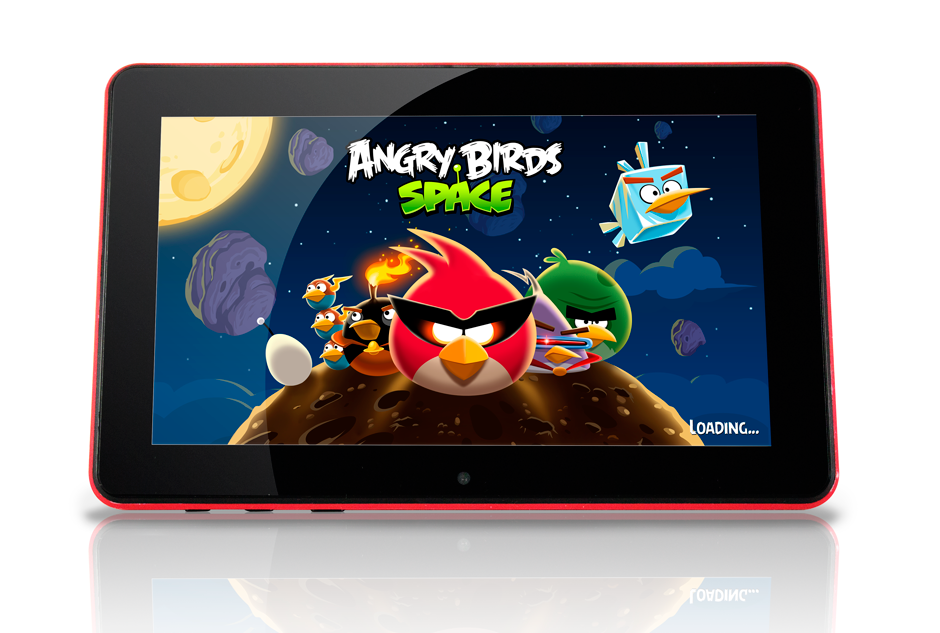
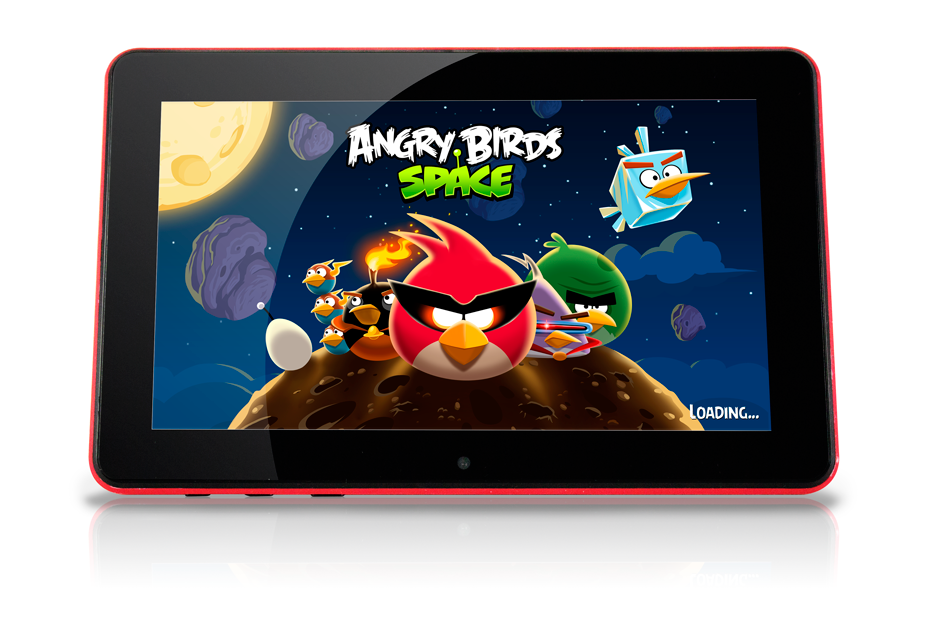
tweeked layout, added list

diff --git a/Ox.html b/Ox.html
@@ -1,6 +1,6 @@
 ---
 layout: product
-title: Ox
+title: ox
 ---
 
 <div class="container-nav">
@@ -19,7 +19,7 @@ title: Ox
 <div class="container-narrow spaceBetweenNav">
 	<div class="row-fluid">
 		<div class="span6">
-			<img src="img/OX7-front.jpg" alt="Ox 7">
+			<img src="img/OX7-front.png" alt="Ox 7">
 		</div>
 		<div class="span5">
 			<h1><img src="img/OX7-Logo.png" alt="Ox 7"></h1>
@@ -28,20 +28,22 @@ title: Ox
 			</p>
 			<ul class="anchors">
   				<li><a href="#">Diseño Moderno</a> <span class="divider">|</span></li>
-  				<li><a href="#">Tus películas favoritas</a> <span class="divider">|</span></li>
-  				<li><a href="#">Google Play Store</a> <span class="divider"></span></li>
+  				<li><a href="#">Google Play Store</a> <span class="divider">|</span></li>
+  				<li><a href="#">Jueagos Favoritos</a> <span class="divider"></span></li>
 			</ul>
 			<p>
 				<button class="btn btn btn-danger btn-large btn-block" type="button">Compralo Ya</button>
 			</p>
 		</div>
 	</div>
-	<div class="whiteSpace"></div>
 	<div class="row-fluid">
 		<div class="span5">
-			<h2>Introduciendo Ox 7"</h2>
+			<h2 class="grey headlineMargin2"><b>Introduciendo Ox 7"</b></h2>
+			<hr>
+			<h2 class="grey">Con un diseño moderno</h2>
 			<p>Con camara, bateria de 4 horas, sistema operativo Android Ice Cream Sandwich, diseño moderno, peso liviano y pantalla brillante. Mira tus películas favoritas y YouTube desde cualquier Parte. Descarga Facebook, Twitter, Angry Birds o tu aplicación favorita desde el Google Play Store.
 			</p>
+			<hr>
 		</div>
 		<div class="span6">
 			<img src="img/OX7-angulo.png" alt="Ox 7">
@@ -49,53 +51,60 @@ title: Ox
 	</div>
 	<div class="whiteSpace"></div>
 	<div class="row-fluid">
-		<div class="span7">
-			<img src="http://placehold.it/548x500" alt="placehold">
+		<div class="span6">
+			<img src="http://placehold.it/470x500" alt="placehold">
 		</div>
-		<div class="span5">
-			<h2 class="grey">Descarga tus applicaciones favoritas</h2>
+		<div class="span6">
+			<h2 class="grey">Descarga tus applicaciones favoritas en el Google Play Store</h2>
 			<hr>
-			<ul class="listnone">
-			<li class="listnone"><img src="img/OX-LogoO.png" alt="Ox">Comparte con facebook</li>
-  			<li class="listnone"><img src="img/OX-LogoO.png" alt="Ox">Toma notas con evernote</li>
-  			<li class="listnone"><img src="img/OX-LogoO.png" alt="Ox">Trabaja con Google Drive</li>
-  			<li class="listnone"><img src="img/OX-LogoO.png" alt="Ox">Mira tus videos favoritos con YouTube</li>		
-			</ul>
+			<div class="row-fluid listHorizontalLineMargin">
+				<div class="span12">
+					<ul class="listnone">
+						<div class="row-fluid">
+								<li class="span8 listnone fontSizeList grey "><img src="img/OX-LogoO.png" alt="Ox">Comparte con Facebook</li>
+							<div class="span4 appIcon">
+								<img src="img/FacebookCircle.png" alt="Facebook">
+							</div>
+						</div>
+						<hr>
+						<div class="row-fluid">
+								<li class="span8 listnone fontSizeList grey "><img src="img/OX-LogoO.png" alt="Ox">Video chat con skype</li>
+							<div class="span4 appIcon">
+								<img src="img/SkypeCircle.png" alt="Skype">
+							</div>
+						</div>
+						<hr>
+  						<div class="row-fluid">
+								<li class="span8 listnone fontSizeList grey "><img src="img/OX-LogoO.png" alt="Ox">Trabaja con Google Drive</li>
+							<div class="span4 appIcon">
+								<img src="img/GoogleDriveCircle.png" alt="Google Drive">
+							</div>
+						</div>
+						<hr>
+  						<div class="row-fluid">
+								<li class="span8 listnone fontSizeList grey "><img src="img/OX-LogoO.png" alt="Ox">Mira videos con YouTube</li>
+							<div class="span4 appIcon">
+								<img src="img/YouTubeCircle.png" alt="YouTube">
+							</div>
+						</div>
+						<hr>
+					</ul>
+				</div>
+			</div>
 		</div>
 	</div>
 	<div class="whiteSpace"></div>
 	<div class="row-fluid">
 		<div class="span12">
-			<h2 class="headLineBig grey" align="center">Juega los mejores juegos</h2>
+			<h2 class="headLineBig fontBlue" align="center">Juega los mejores juegos</h2>
 		</div>
 		<div class="span12">
 			<img src="img/OX7-angry.png" alt="Ox 7 angry brids">
 		</div>
-	<div class="whiteSpace"></div>
 	<div class="row-fluid">
-		<ul class="thumbnails">
-  			<li class="span4">
-    			<a href="#" class="thumbnail">
-      			<img src="http://placehold.it/313x200" alt="placehold">
-    			</a>
-    			 <h3 align="center">Thumbnail label</h3>
-     			 <p align="center">Thumbnail caption...</p>
-  			</li>
-  			<li class="span4">
-    			<a href="#" class="thumbnail">
-      			<img src="http://placehold.it/313x200" alt="placehold">
-    			</a>
-    			 <h3 align="center">Thumbnail label</h3>
-     			 <p align="center">Thumbnail caption...</p>
-  			</li>
-  			<li class="span4">
-    			<a href="#" class="thumbnail">
-      			<img src="http://placehold.it/313x200" alt="placehold">
-    			</a>
-    			 <h3 align="center">Thumbnail label</h3>
-     			 <p align="center">Thumbnail caption...</p>
-  			</li>
-		</ul>
+		<div class="span4 offset4">
+			<p><button class="btn btn btn-danger btn-large btn-block marginCompraloYa" type="button">Compra tu Ox 7 ya</button></p>
+		</div>
 	</div>
 </div>
 	

diff --git a/css/bootstrap.css b/css/bootstrap.css
@@ -6171,7 +6171,7 @@ a.badge:focus {
 
 .container-nav {
   background: none repeat scroll 0 0 #FFFFFF;
-  height: 100px;
+  height: 85px;
   width: 100%;
   display: block;
   position: fixed;
@@ -6197,7 +6197,7 @@ a.badge:focus {
 }
 
 .masthead {
-  padding-top: 20px;
+  padding-top: 10px;
   margin-bottom: -10px;
   margin: 0 auto;
   max-width: 940px;
@@ -6248,27 +6248,55 @@ h2 {
   font-weight: 300;
 
 }
-.fontBlue{
-  color: #0088CC;
-}
 
 p {
   font-family: "HelveticaNeue-Light", "Helvetica Neue Light", "Helvetica Neue", Helvetica, Arial, "Lucida Grande", sans-serif; 
   font-size: 15px;
 }
 
+.listHorizontalLineMargin{
+  margin-top: -15px;
+}
+
+.headlineMargin2{
+  margin-top: 60px;
+  font-size: 40px;
+}
+
+.marginCompraloYa{
+  margin-top: -50px;
+}
+
 .listnone {
   list-style: none;
   margin-left: 0px;
+  margin-bottom: -10px;
+  margin-top: 15px;
+}
+
+.appIcon{
+  margin-top: -15px;
+  margin-bottom: -15px;
+}
+
+/*******Fonts******/
+
+.grey {
+  color: #585858;
+}
+
+.fontBlue{
+  color: #0088CC;
+}
+
+.fontRed {
+  color: #D00000;
+}
+
+.fontSizeList{
+  font-size: 20px;
 }
 
 .headLineBig {
   font-size: 50px;
-}
-.grey {
-  color: #C0C0C0;
-}
-
-.imageListSide{
-  
 }
